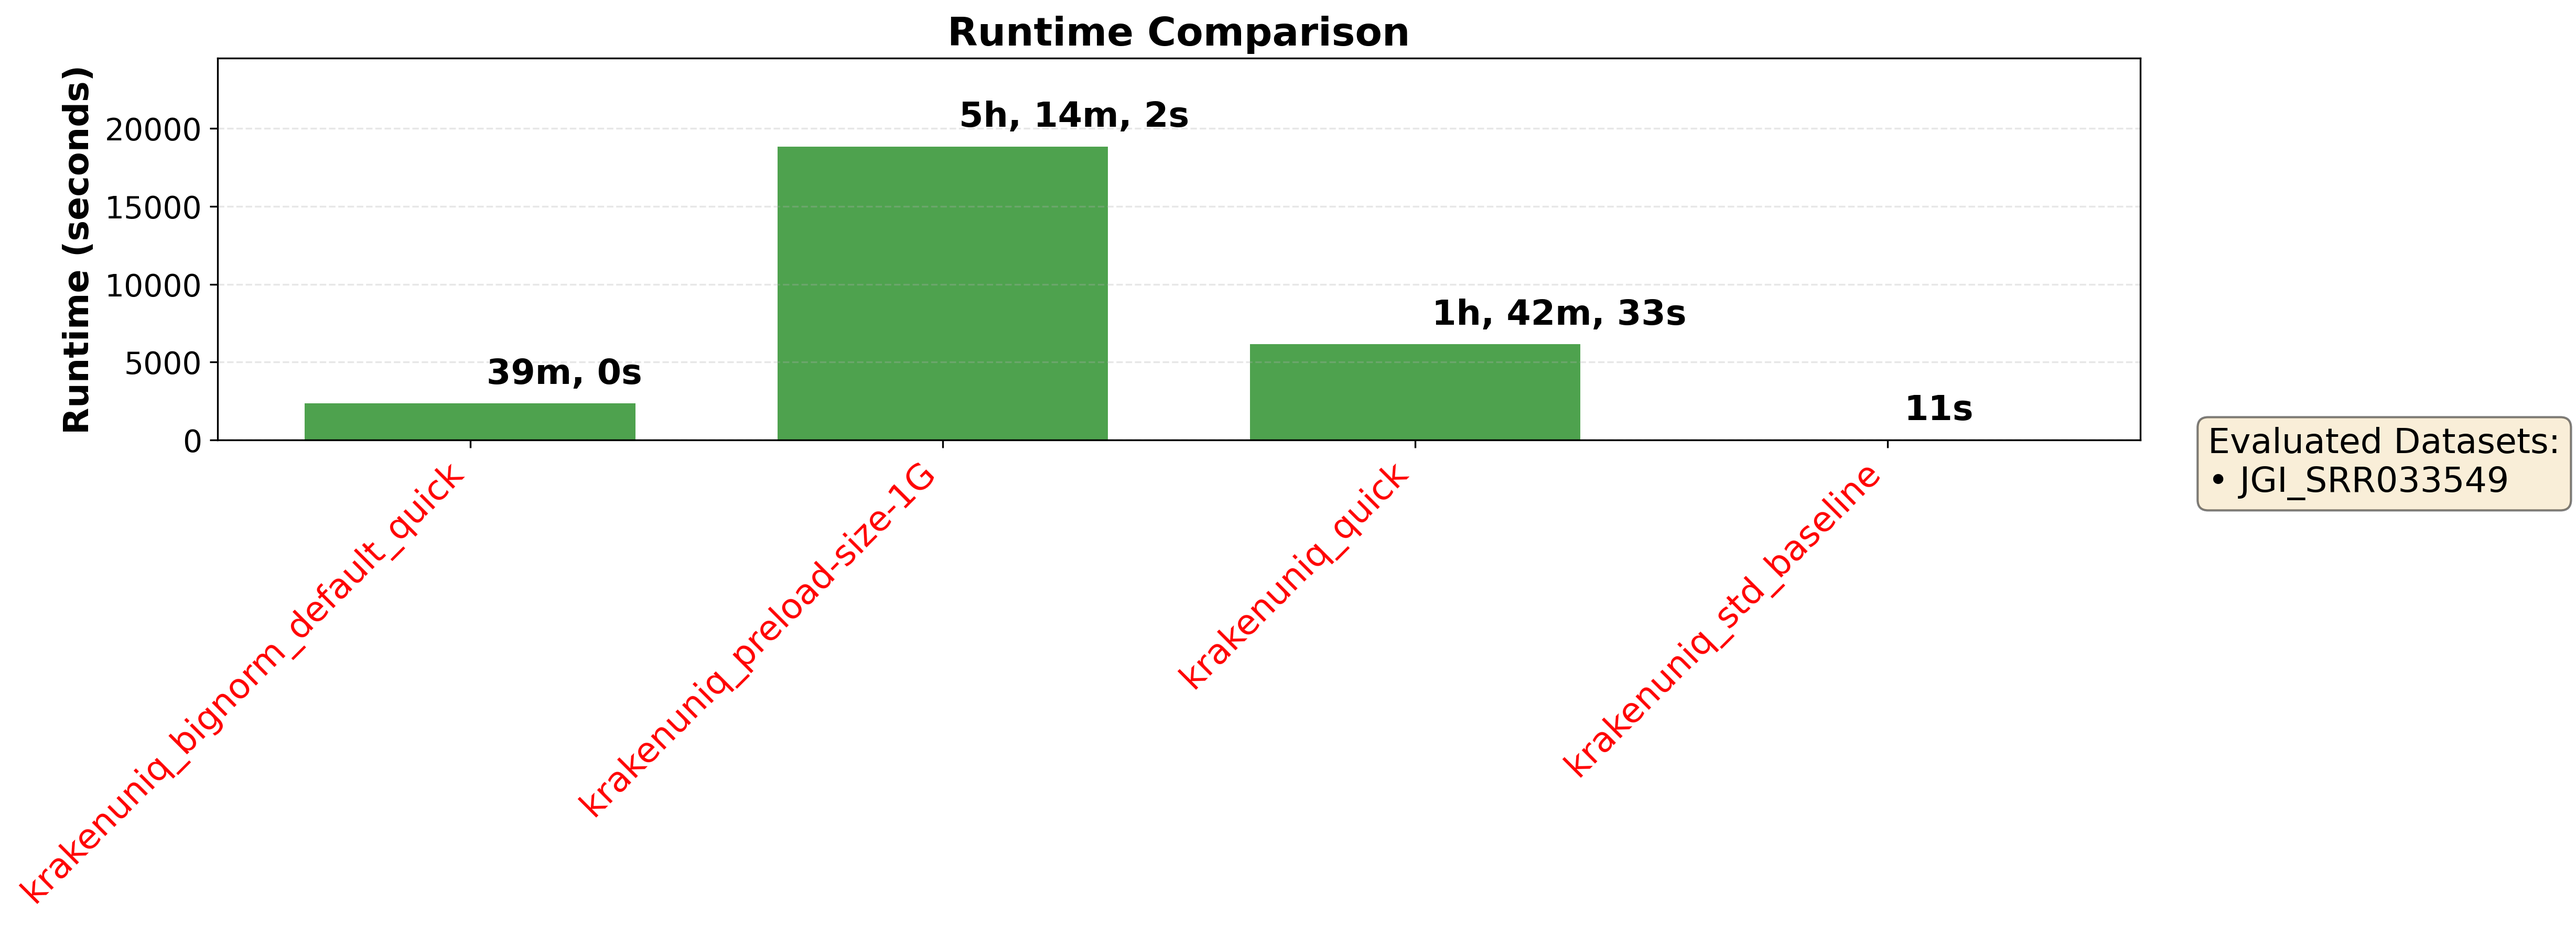
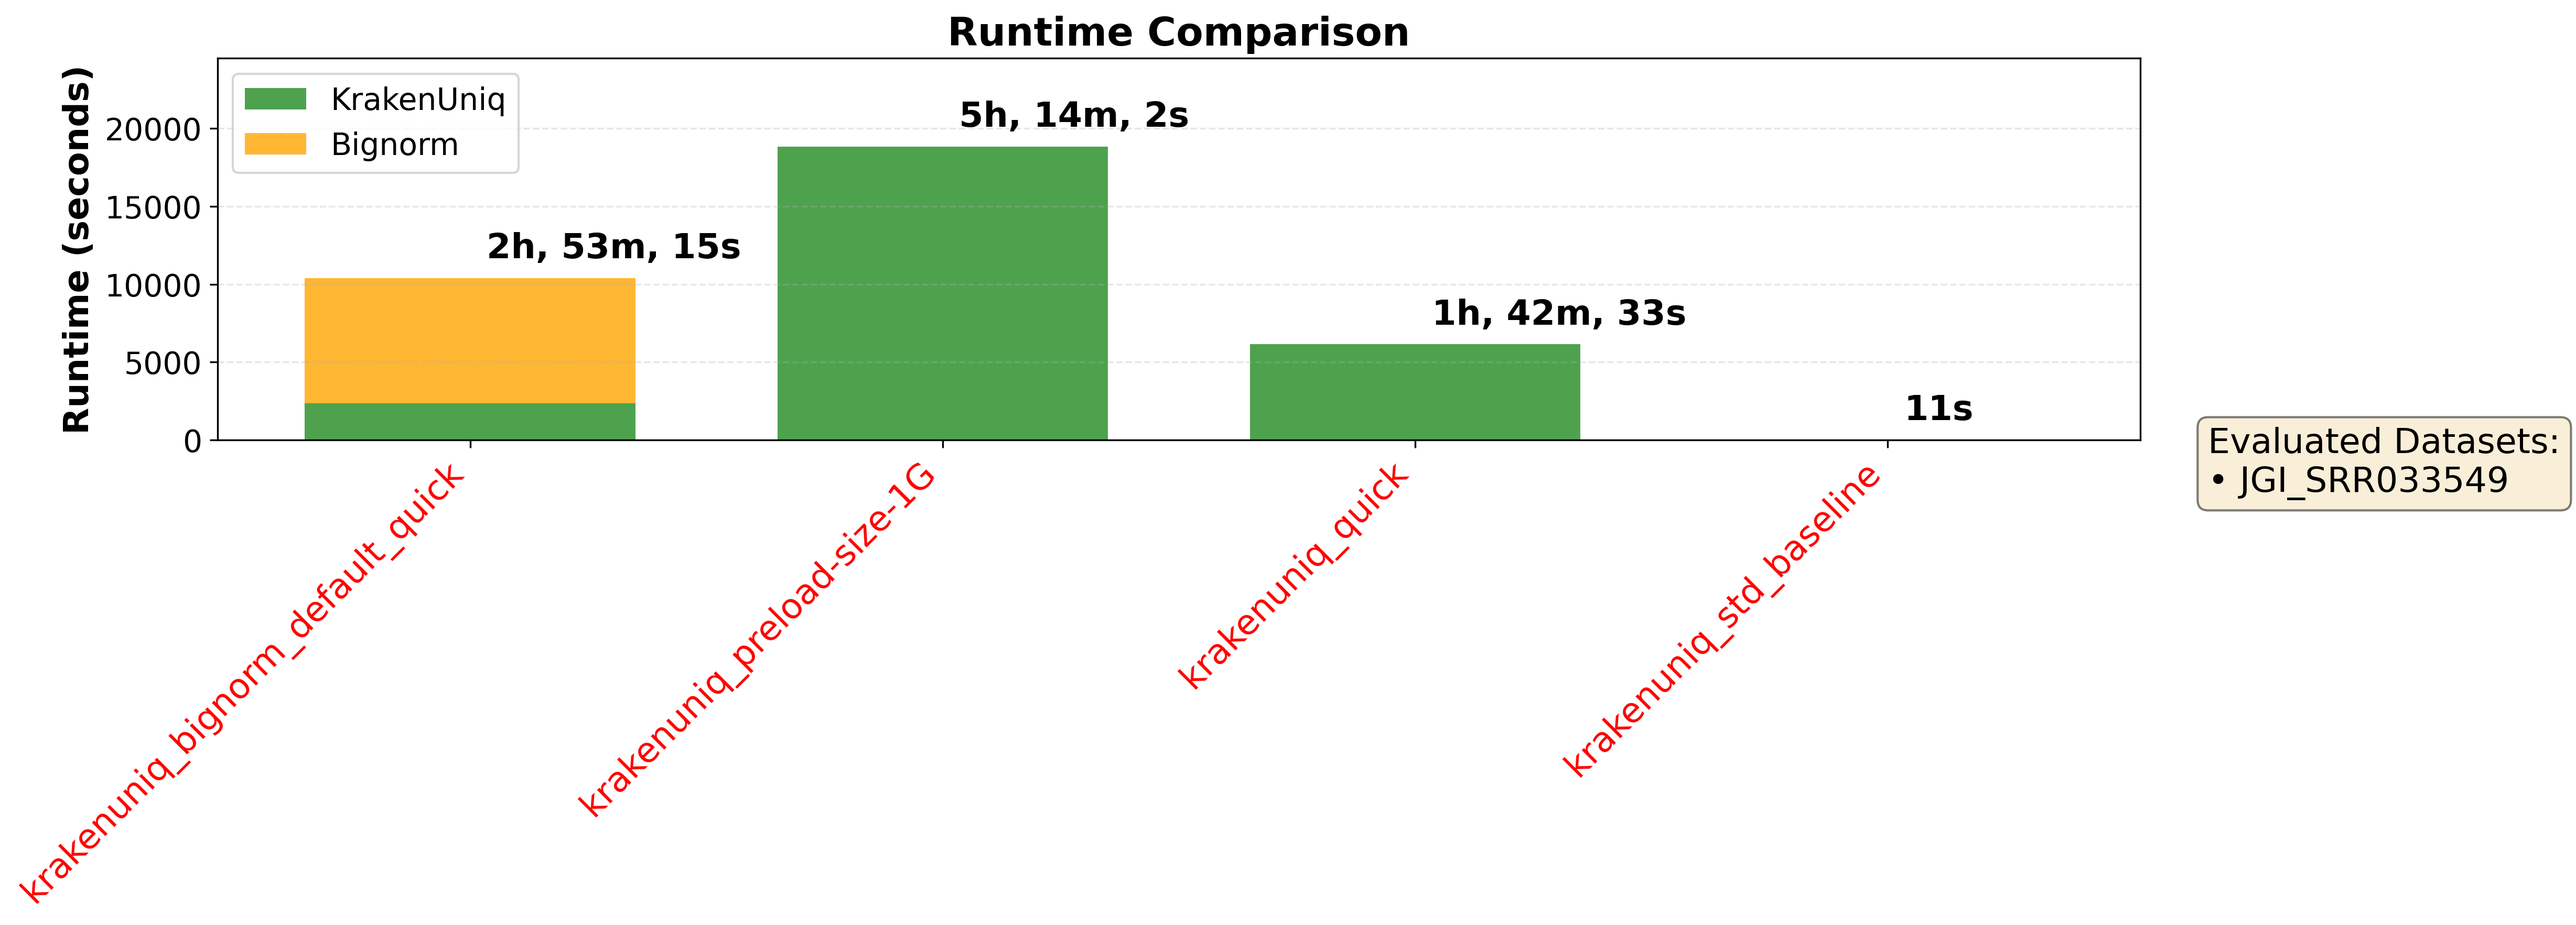
Final update with README

Changed region(s): [[0.0934, 0.2492, 0.3114, 0.436], [0.0934, 0.0934, 0.218, 0.1869]]

diff --git a/benchmark.py b/benchmark.py
@@ -384,22 +384,31 @@ def plot_runtime_results(all_tool_results, output_file, datasets):
     x = np.arange(n_tools)
     width = 0.7
     
-    # Runtime plot - single bar per tool (total runtime)
-    runtime_means = [all_tool_results[tool]['runtime_mean'] for tool in tools_with_runtime]
-    runtime_stds = [all_tool_results[tool]['runtime_std'] for tool in tools_with_runtime]
+    # Separate base runtime and bignorm runtime
+    base_runtime_means = [all_tool_results[tool]['runtime_mean'] for tool in tools_with_runtime]
+    base_runtime_stds = [all_tool_results[tool]['runtime_std'] for tool in tools_with_runtime]
+    bignorm_runtime_means = [all_tool_results[tool].get('bignorm_runtime_mean', 0) for tool in tools_with_runtime]
+    bignorm_runtime_stds = [all_tool_results[tool].get('bignorm_runtime_std', 0) for tool in tools_with_runtime]
     
-    # Plot runtime data
-    bars = ax.bar(x, runtime_means, width, alpha=0.8, color='forestgreen', yerr=runtime_stds)
+    # Calculate total runtimes for positioning labels
+    total_runtimes = [base + bignorm for base, bignorm in zip(base_runtime_means, bignorm_runtime_means)]
+    
+    # Plot stacked bars
+    bars_base = ax.bar(x, base_runtime_means, width, alpha=0.8, color='forestgreen', 
+                       yerr=base_runtime_stds, label='KrakenUniq')
+    bars_bignorm = ax.bar(x, bignorm_runtime_means, width, alpha=0.8, color='orange',
+                          bottom=base_runtime_means, yerr=bignorm_runtime_stds, 
+                          label='Bignorm')
+    
     ax.set_ylabel('Runtime (seconds)', fontsize=16, fontweight='bold')
     ax.set_title('Runtime Comparison', fontsize=18, fontweight='bold')
     
-   
     # Set y-axis limits to leave space for labels at the top
-    max_runtime = max(runtime_means)
+    max_runtime = max(total_runtimes)
     ax.set_ylim(top=max_runtime * 1.3)
 
-     # Add time labels to the right of bars
-    for i, (bar, runtime_sec, runtime_std) in enumerate(zip(bars, runtime_means, runtime_stds)):
+    # Add time labels to the right of bars
+    for i, runtime_sec in enumerate(total_runtimes):
         hours = int(runtime_sec // 3600)
         minutes = int((runtime_sec % 3600) // 60)
         seconds = int(runtime_sec % 60)
@@ -415,8 +424,8 @@ def plot_runtime_results(all_tool_results, output_file, datasets):
         label = ", ".join(label_parts)
         
         # Position label to the right of the bar
-        height = bar.get_height() + max_runtime * 0.1
-        x_pos = bar.get_x() + bar.get_width() * 0.55
+        height = runtime_sec + max_runtime * 0.1
+        x_pos = i + width * 0.05
         ax.text(x_pos, height,
                 label,
                 ha='left', va='center', fontsize=16, rotation=0, fontweight='bold')
@@ -434,6 +443,9 @@ def plot_runtime_results(all_tool_results, output_file, datasets):
             label.set_color('red')
     
     ax.grid(axis='y', alpha=0.3, linestyle='--')
+    
+    # Add legend
+    ax.legend(loc='upper left', fontsize=14, frameon=True)
     
     # Add datasets text box on the right
     datasets_text = "Evaluated Datasets:\n" + "\n".join([f"• {ds}" for ds in datasets])
@@ -637,6 +649,7 @@ def main():
             
             tool_results = []
             tool_runtimes_list = []
+            tool_bignorm_runtimes_list = []
             
             for dataset in datasets:
                 result = eval_tool_classification(dataset, tool_dir, tool_name)
@@ -644,19 +657,20 @@ def main():
                 # Get runtime for this dataset
                 if tool_runtimes is not None and dataset in tool_runtimes:
                     dataset_runtime = tool_runtimes[dataset]
+                    bignorm_prep_time = 0
                     
                     # Check if this tool uses Bignorm preprocessing
                     match = re.search(r'bignorm_(\w+)', dir_name)
                     if match:
                         bignorm_param_set = match.group(0).replace("_quick", "")
                         print(bignorm_param_set)
-                        # Add Bignorm preprocessing time if available
+                        # Get Bignorm preprocessing time if available
                         if bignorm_runtimes and (dataset, bignorm_param_set) in bignorm_runtimes:
                             bignorm_prep_time = bignorm_runtimes[(dataset, bignorm_param_set)]
-                            dataset_runtime += bignorm_prep_time
-                            print(f"    {dataset}: Added Bignorm preprocessing time ({bignorm_prep_time:.0f}s) for {bignorm_param_set}")
+                            print(f"    {dataset}: Bignorm preprocessing time: {bignorm_prep_time:.0f}s for {bignorm_param_set}")
                     
                     tool_runtimes_list.append(dataset_runtime)
+                    tool_bignorm_runtimes_list.append(bignorm_prep_time)
                 
                 if result:
                     tool_results.append(result)
@@ -698,7 +712,10 @@ def main():
                 if tool_runtimes_list:
                     all_tool_results[tool_name]['runtime_mean'] = np.mean(tool_runtimes_list)
                     all_tool_results[tool_name]['runtime_std'] = np.std(tool_runtimes_list)
-                    print(f"    Runtime - Mean: {all_tool_results[tool_name]['runtime_mean']:.0f}s ± {all_tool_results[tool_name]['runtime_std']:.0f}s")
+                    all_tool_results[tool_name]['bignorm_runtime_mean'] = np.mean(tool_bignorm_runtimes_list)
+                    all_tool_results[tool_name]['bignorm_runtime_std'] = np.std(tool_bignorm_runtimes_list)
+                    total_mean = all_tool_results[tool_name]['runtime_mean'] + all_tool_results[tool_name]['bignorm_runtime_mean']
+                    print(f"    Runtime - Mean: {total_mean:.0f}s (Base: {all_tool_results[tool_name]['runtime_mean']:.0f}s, Bignorm: {all_tool_results[tool_name]['bignorm_runtime_mean']:.0f}s)")
                 else:
                     print(f"    No runtime data available for {tool_name}")
                 

diff --git a/bignorm_experiments.py b/bignorm_experiments.py
@@ -295,8 +295,12 @@ def run_bignorm_experiment(dataset, params, paired_file=None):
             
             if os.path.exists(out1_keep):
                 os.rename(out1_keep, out1)
+            else:
+                print(f"{out1_keep} was not found and therefore not renamed")
             if os.path.exists(out2_keep):
                 os.rename(out2_keep, out2)
+            else:
+                print(f"{out2_keep} was not found and therefore not renamed")
             
             output_size = get_file_size(out1) + get_file_size(out2)
             output_files = f"{os.path.basename(out1)}, {os.path.basename(out2)}"
@@ -309,6 +313,8 @@ def run_bignorm_experiment(dataset, params, paired_file=None):
             
             if os.path.exists(out1_keep):
                 os.rename(out1_keep, out1)
+            else:
+                print(f"{out1_keep} was not found and therefore not renamed")
             
             output_size = get_file_size(out1)
             output_files = os.path.basename(out1)

diff --git a/classify.py b/classify.py
@@ -89,6 +89,11 @@ def main():
             continue
         
         for fasta_filename in sorted(os.listdir(FASTA_DIR)):
+            # If method_suffix is specified, only process files with that suffix
+            if args.method_suffix:
+                if not fasta_filename.endswith(f".{args.method_suffix}.gz"):
+                    continue
+                 
             fasta_fp = os.path.join(FASTA_DIR, fasta_filename)
             if fasta_filename.startswith(dataset) and os.path.isfile(fasta_fp):
                 if "R2" in fasta_filename and os.path.isfile(fasta_fp.replace("R2", "R1")):

diff --git a/README.md b/README.md
@@ -1,0 +1,180 @@
+# Semestral project of the course Tópicos en Manejo de Grandes Volúmenes de Datos (MGVD) of 2025-2
+### Goal: optimize efficiency in metagenomic classification for low-memory devices
+
+To assess performance of state-of-the-art metagenomic classification tools, two streaming-based algorithms were analyzed: Bignorm (A. Wedemeyer et al., “An improved filtering algorithm for big read datasets and its application to single-cell assembly”, BMC Bioinformatics, 2017.) for normalization based on rare k-mers and KrakenUniq (F. P. Breitwieser, D. N. Baker, and S. L. Salzberg, “KrakenUniq: confident and fast metagenomics classification using unique k-mer counts,” Genome Biol, 2018.) for k-mer-based classification.
+
+## Quick Setup
+
+### 1. Download Data and Create Docker Volume
+
+```bash
+# Move to the location designated for the KrakenUniq std. database and benchmark dataset (Volume with at least 400Gb)
+cd /path/to/metagenomics_data
+
+# Download KrakenUniq std. database
+wget -P ./standard_db \
+     https://genome-idx.s3.amazonaws.com/kraken/uniq/krakendb-2022-06-16-STANDARD/database.kdb
+wget -P ./standard_db \
+	https://genome-idx.s3.amazonaws.com/kraken/uniq/krakendb-2022-06-16-STANDARD/kuniq_standard_minus_kdb.20220616.tgz
+# unzip the .tar.gz index files
+tar -xf kuniq_standard_minus_kdb.20220616.tgz 
+
+# Download McIntyre IMMSA dataset
+wget -r -nH --cut-dirs=2 -np \
+     -P ./IMMSA \
+     ftp://ftp.ncbi.nlm.nih.gov/nist-immsa/IMMSA/
+cd IMMSA && unzip truth_sets.zip && cd .. # (Unzipping might already be done)
+
+# Create docker volume (bind path to working directory / parent directory of IMMSA and standard_db)
+docker volume create \
+  --driver local \
+  --opt type=none \
+  --opt device=$(pwd) \
+  --opt o=bind \
+  metagenomics_data
+```
+
+### 2. Setup Environment
+
+**Option A: VS Code Dev Container (Recommended)**
+1. Open this folder in VS Code
+2. Install the "Dev Containers" extension
+3. Click "Reopen in Container" when prompted (or Ctrl+P -> "> Dev Containers: Rebuild and Reopen in Container")
+4. Bignorm will auto-compile on container start
+
+**Option B: Manual Docker Setup**
+```bash
+# Navigate to repository directory
+cd /path/to/mgvd_proyecto-semestral
+
+# Build Docker image from Dockerfile
+docker build -t mgvd .devcontainer
+
+# Run container
+docker run -it \
+	-v metagenomics_data:/mnt/data \
+	-v $(pwd):/mgvd \
+	--name mgvd mgvd /bin/bash
+
+# (Optional, because Bignorm executable is already in repository) Inside container: Build Bignorm
+cd /mgvd/Bignorm && make && cd ..
+```
+
+## Usage
+
+The used data directories are currently hard-coded for the mounted IMMSA volume (`/mnt/data/IMMSA`), the results are saved in `IMMSA_evaluation` in the root of the repository, where the KrakenUniq baselines and existing evaluations from the project are located.
+
+
+### classify.py - Run KrakenUniq Classification
+
+Classify metagenomic reads using KrakenUniq with various options (they can be combined).
+
+```bash
+# Basic classification (iterates with standard KrakenUniq over all IMMSA read files)
+python3 classify.py 
+
+# Quick mode (faster, less sensitive)
+python3 classify.py --quick
+
+# With memory preloading (faster subsequent queries)
+python3 classify.py --preload-size 1G
+
+# Process specific file only
+python3 classify.py --file /mnt/data/IMMSA/sample.fq.gz
+
+# Use normalized data (Bignorm or custom), searches for <original_fasta_filename>.<method_suffix>.gz
+python3 classify.py --method-suffix bignorm_default
+```
+
+**Outputs:**
+- `IMMSA_evaluation/krakenuniq_*/` - Classification reports and outputs
+- `runtimes.tsv` - Execution times per dataset
+
+### bignorm_experiments.py - Bignorm Parameter Sweep
+
+Test multiple Bignorm normalization parameters to find optimal filtering settings. For using the output together with KrakenUniq, look up the file in `/mnt/data/IMMSA` and check if the output was renamed from `.gz_keep.gz` to `.<param_set>.gz` where the default `param_set` is `bignorm_default`.
+
+```bash
+# Run all parameter combinations
+python3 bignorm_experiments.py --experiment-dir IMMSA_evaluation/bignorm_experiments
+
+# Run only default/baseline parameters
+python3 bignorm_experiments.py --experiment-dir IMMSA_evaluation/bignorm_experiments --baseline-only
+
+# Process single file
+python3 bignorm_experiments.py --experiment-dir IMMSA_evaluation/bignorm_experiments \
+  --file /mnt/data/IMMSA//Volumes/SSDext/metagenomics_data/IMMSA/ABRF_MGRG_1ng_Repli_g_08142015_GTCCGC_L001_R1_001.fastq.gz
+```
+
+**Parameter sets tested:**
+- Default (k=31, Q=20, A=3, B=5, C=20, N=10)
+- Quality thresholds (Q: 10, 20, 30)
+- Rarity thresholds (A: 2, 3, 5)
+- Contribution thresholds (B: 3, 5, 10)
+- Abundance thresholds (C: 10, 20, 50)
+- N-tolerance (N: 5, 10, 20)
+
+**Outputs:**
+- `summary.tsv` - Aggregated statistics (reads kept, FP rate, runtime)
+- `logs/*.txt` - Detailed logs per experiment
+- `*.bignorm_*.gz` - Normalized read files
+
+### benchmark.py - Performance Evaluation
+
+Evaluate classification accuracy against ground truth at genus and species levels. To include runtime in the plotting from Bignorm-normalized runs, the `dataset` entry in `/mgvd/IMMSA_evaluation/bignorm_experiments/summary.tsv` might have to be shortened to the naming convention in `/mnt/data/IMMSA/truth_sets` (without `_TRUTH.txt`).
+
+```bash
+# Benchmark classification results (evaluates all tools in eval-dir)
+python3 benchmark.py \
+  --ground-truth-dir /mnt/data/IMMSA/truth_sets \
+  --eval-dir IMMSA_evaluation
+
+# Benchmark with Bignorm preprocessing times included (for combined runtime of Bignorm-normalized runs in benchmark_runtime.png)
+python3 benchmark.py \
+  --ground-truth-dir /mnt/data/IMMSA/truth_sets \
+  --eval-dir IMMSA_evaluation \
+  --bignorm-experiments-dir IMMSA_evaluation/bignorm_experiments
+
+# Evaluate only specific datasets
+python3 benchmark.py \
+  --ground-truth-dir /mnt/data/IMMSA/truth_sets \
+  --eval-dir IMMSA_evaluation \
+  --files-to-evaluate JGI_SRR033549 ABRF_MGRG_1ng
+
+# Only evaluate and plot KrakenUniq variations
+python3 benchmark.py \
+  --ground-truth-dir /mnt/data/IMMSA/truth_sets \
+  --eval-dir IMMSA_evaluation \
+  --krakenuniq-only
+```
+
+**Outputs:**
+- `benchmark_summary.tsv` - Precision, recall, F1, AUPR per tool (mean ± std)
+- `metrics/*_metrics.tsv` - Detailed per-dataset metrics for each tool
+- `benchmark_metrics.png` - F1 and recall comparison plots
+- `benchmark_runtime.png` - Runtime comparison with Bignorm preprocessing times
+
+## Directory Structure
+
+```
+/mgvd/                          # Working directory
+├── Bignorm/                    # Bignorm source code
+├── classify.py                 # KrakenUniq classification script
+├── bignorm_experiments.py      # Bignorm parameter sweep
+├── benchmark.py                # Accuracy benchmarking
+└── IMMSA_evaluation/           # Results directory
+    ├── krakenuniq_*/           # Classification outputs
+    ├── bignorm_experiments/    # Normalization experiments
+    └── benchmark_summary.tsv   # Performance metrics
+
+/mnt/data/                      # Docker volume (read-only data)
+├── IMMSA/                      # Metagenomic datasets
+│   └── truth_sets/             # Ground truth taxonomies
+└── standard_db/                # KrakenUniq database
+```
+
+## Notes
+
+- Scripts auto-detect paired-end reads (R1/R2 naming)
+- FASTQ files use decision function 6 (quality-aware), FASTA uses function 3
+- All scripts support incremental runs (skip completed experiments)
